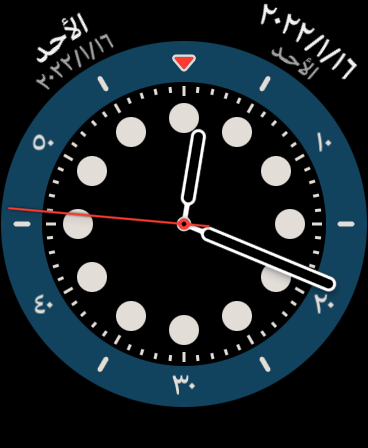
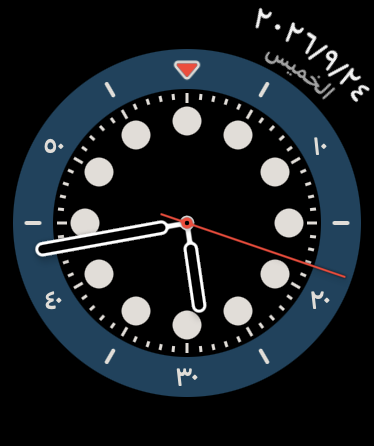
[README] Update screenshots for watchOS 26

Changed region(s): [[0.0, 0.0, 1.0, 0.9327], [0.3288, 0.3206, 0.3886, 0.3498], [0.3886, 0.2915, 0.4185, 0.3206]]

diff --git a/Screenshots/README.md b/Screenshots/README.md
@@ -1,13 +1,13 @@
 ## Screenshots
 
 Screenshots from
-Apple Watch Series 6 - 44mm
-on watchOS 8.3
+Apple Watch Series 11 - 42mm
+on watchOS 26.5
 
-| Locale | app | Count Up | Modular | X-Large | Modular Compact | Numerals | Simple | Color |
-| --- | --- | --- | --- | --- | --- | --- | --- | --- |
-| [ar-EG](ar-EG) | ![app, ar-EG](ar-EG/0_app.png) | ![Count Up, ar-EG](ar-EG/1_Count_Up.png) | ![Modular, ar-EG](ar-EG/2_Modular.png) | ![X-Large, ar-EG](ar-EG/3_X-Large.png) | ![Modular Compact, ar-EG](ar-EG/4_Modular_Compact.png) | ![Numerals, ar-EG](ar-EG/5_Numerals.png) | ![Simple, ar-EG](ar-EG/6_Simple.png) | ![Color, ar-EG](ar-EG/7_Color.png) |
-| [de-DE](de-DE) | ![app, de-DE](de-DE/0_app.png) | ![Count Up, de-DE](de-DE/1_Count_Up.png) | ![Modular, de-DE](de-DE/2_Modular.png) | ![X-Large, de-DE](de-DE/3_X-Large.png) | ![Modular Compact, de-DE](de-DE/4_Modular_Compact.png) | ![Numerals, de-DE](de-DE/5_Numerals.png) | ![Simple, de-DE](de-DE/6_Simple.png) | ![Color, de-DE](de-DE/7_Color.png) |
-| [en-GB](en-GB) | ![app, en-GB](en-GB/0_app.png) | ![Count Up, en-GB](en-GB/1_Count_Up.png) | ![Modular, en-GB](en-GB/2_Modular.png) | ![X-Large, en-GB](en-GB/3_X-Large.png) | ![Modular Compact, en-GB](en-GB/4_Modular_Compact.png) | ![Numerals, en-GB](en-GB/5_Numerals.png) | ![Simple, en-GB](en-GB/6_Simple.png) | ![Color, en-GB](en-GB/7_Color.png) |
-| [en-US](en-US) | ![app, en-US](en-US/0_app.png) | ![Count Up, en-US](en-US/1_Count_Up.png) | ![Modular, en-US](en-US/2_Modular.png) | ![X-Large, en-US](en-US/3_X-Large.png) | ![Modular Compact, en-US](en-US/4_Modular_Compact.png) | ![Numerals, en-US](en-US/5_Numerals.png) | ![Simple, en-US](en-US/6_Simple.png) | ![Color, en-US](en-US/7_Color.png) |
-| [fr-FR](fr-FR) | ![app, fr-FR](fr-FR/0_app.png) | ![Count Up, fr-FR](fr-FR/1_Count_Up.png) | ![Modular, fr-FR](fr-FR/2_Modular.png) | ![X-Large, fr-FR](fr-FR/3_X-Large.png) | ![Modular Compact, fr-FR](fr-FR/4_Modular_Compact.png) | ![Numerals, fr-FR](fr-FR/5_Numerals.png) | ![Simple, fr-FR](fr-FR/6_Simple.png) | ![Color, fr-FR](fr-FR/7_Color.png) |
+| Locale | app | Count Up | Modular Compact | X-Large | Utility |
+| --- | --- | --- | --- | --- | --- |
+| [ar-EG](ar-EG) | ![app, ar-EG](ar-EG/0_app.png) | ![Count Up, ar-EG](ar-EG/1_Count_Up.png) | ![Modular Compact, ar-EG](ar-EG/2_Modular_Compact.png) | ![X-Large, ar-EG](ar-EG/3_X-Large.png) | ![Utility, ar-EG](ar-EG/4_Utility.png) |
+| [de-DE](de-DE) | ![app, de-DE](de-DE/0_app.png) | ![Count Up, de-DE](de-DE/1_Count_Up.png) | ![Modular Compact, de-DE](de-DE/2_Modular_Compact.png) | ![X-Large, de-DE](de-DE/3_X-Large.png) | ![Utility, de-DE](de-DE/4_Utility.png) |
+| [en-GB](en-GB) | ![app, en-GB](en-GB/0_app.png) | ![Count Up, en-GB](en-GB/1_Count_Up.png) | ![Modular Compact, en-GB](en-GB/2_Modular_Compact.png) | ![X-Large, en-GB](en-GB/3_X-Large.png) | ![Utility, en-GB](en-GB/4_Utility.png) |
+| [en-US](en-US) | ![app, en-US](en-US/0_app.png) | ![Count Up, en-US](en-US/1_Count_Up.png) | ![Modular Compact, en-US](en-US/2_Modular_Compact.png) | ![X-Large, en-US](en-US/3_X-Large.png) | ![Utility, en-US](en-US/4_Utility.png) |
+| [fr-FR](fr-FR) | ![app, fr-FR](fr-FR/0_app.png) | ![Count Up, fr-FR](fr-FR/1_Count_Up.png) | ![Modular Compact, fr-FR](fr-FR/2_Modular_Compact.png) | ![X-Large, fr-FR](fr-FR/3_X-Large.png) | ![Utility, fr-FR](fr-FR/4_Utility.png) |

diff --git a/README.md b/README.md
@@ -6,11 +6,8 @@ MonthDay is a watchOS app with a complication to show the month and day.
 
 ![app](Screenshots/en-US/0_app.png)
 ![Count Up](Screenshots/en-US/1_Count_Up.png)
-![Modular](Screenshots/en-US/2_Modular.png)
+![Modular Compact](Screenshots/en-US/2_Modular_Compact.png)
 ![X-Large](Screenshots/en-US/3_X-Large.png)
-![Modular Compact](Screenshots/en-US/4_Modular_Compact.png)
-![Numerals](Screenshots/en-US/5_Numerals.png)
-![Simple](Screenshots/en-US/6_Simple.png)
-![Color](Screenshots/en-US/7_Color.png)
+![Utility](Screenshots/en-US/4_Utility.png)
 
 See more screenshots in the [Screenshots](Screenshots) directory.

diff --git a/Screenshots/en-GB/README.md b/Screenshots/en-GB/README.md
@@ -1,14 +1,11 @@
 ## English, United Kingdom
 
 Screenshots from
-Apple Watch Series 6 - 44mm
-on watchOS 8.3
+Apple Watch Series 11 - 42mm
+on watchOS 26.5
 
 ![app](0_app.png)
 ![Count Up](1_Count_Up.png)
-![Modular](2_Modular.png)
+![Modular Compact](2_Modular_Compact.png)
 ![X-Large](3_X-Large.png)
-![Modular Compact](4_Modular_Compact.png)
-![Numerals](5_Numerals.png)
-![Simple](6_Simple.png)
-![Color](7_Color.png)
+![Utility](4_Utility.png)

diff --git a/Screenshots/en-US/README.md b/Screenshots/en-US/README.md
@@ -1,14 +1,11 @@
 ## English, United States
 
 Screenshots from
-Apple Watch Series 6 - 44mm
-on watchOS 8.3
+Apple Watch Series 11 - 42mm
+on watchOS 26.5
 
 ![app](0_app.png)
 ![Count Up](1_Count_Up.png)
-![Modular](2_Modular.png)
+![Modular Compact](2_Modular_Compact.png)
 ![X-Large](3_X-Large.png)
-![Modular Compact](4_Modular_Compact.png)
-![Numerals](5_Numerals.png)
-![Simple](6_Simple.png)
-![Color](7_Color.png)
+![Utility](4_Utility.png)

diff --git a/Screenshots/de-DE/README.md b/Screenshots/de-DE/README.md
@@ -1,14 +1,11 @@
 ## German, Germany
 
 Screenshots from
-Apple Watch Series 6 - 44mm
-on watchOS 8.3
+Apple Watch Series 11 - 42mm
+on watchOS 26.5
 
 ![app](0_app.png)
 ![Count Up](1_Count_Up.png)
-![Modular](2_Modular.png)
+![Modular Compact](2_Modular_Compact.png)
 ![X-Large](3_X-Large.png)
-![Modular Compact](4_Modular_Compact.png)
-![Numerals](5_Numerals.png)
-![Simple](6_Simple.png)
-![Color](7_Color.png)
+![Utility](4_Utility.png)

diff --git a/Screenshots/fr-FR/README.md b/Screenshots/fr-FR/README.md
@@ -1,14 +1,11 @@
 ## French, France
 
 Screenshots from
-Apple Watch Series 6 - 44mm
-on watchOS 8.3
+Apple Watch Series 11 - 42mm
+on watchOS 26.5
 
 ![app](0_app.png)
 ![Count Up](1_Count_Up.png)
-![Modular](2_Modular.png)
+![Modular Compact](2_Modular_Compact.png)
 ![X-Large](3_X-Large.png)
-![Modular Compact](4_Modular_Compact.png)
-![Numerals](5_Numerals.png)
-![Simple](6_Simple.png)
-![Color](7_Color.png)
+![Utility](4_Utility.png)

diff --git a/Screenshots/ar-EG/README.md b/Screenshots/ar-EG/README.md
@@ -1,14 +1,11 @@
 ## Arabic, Egypt
 
 Screenshots from
-Apple Watch Series 6 - 44mm
-on watchOS 8.3
+Apple Watch Series 11 - 42mm
+on watchOS 26.5
 
 ![app](0_app.png)
 ![Count Up](1_Count_Up.png)
-![Modular](2_Modular.png)
+![Modular Compact](2_Modular_Compact.png)
 ![X-Large](3_X-Large.png)
-![Modular Compact](4_Modular_Compact.png)
-![Numerals](5_Numerals.png)
-![Simple](6_Simple.png)
-![Color](7_Color.png)
+![Utility](4_Utility.png)
